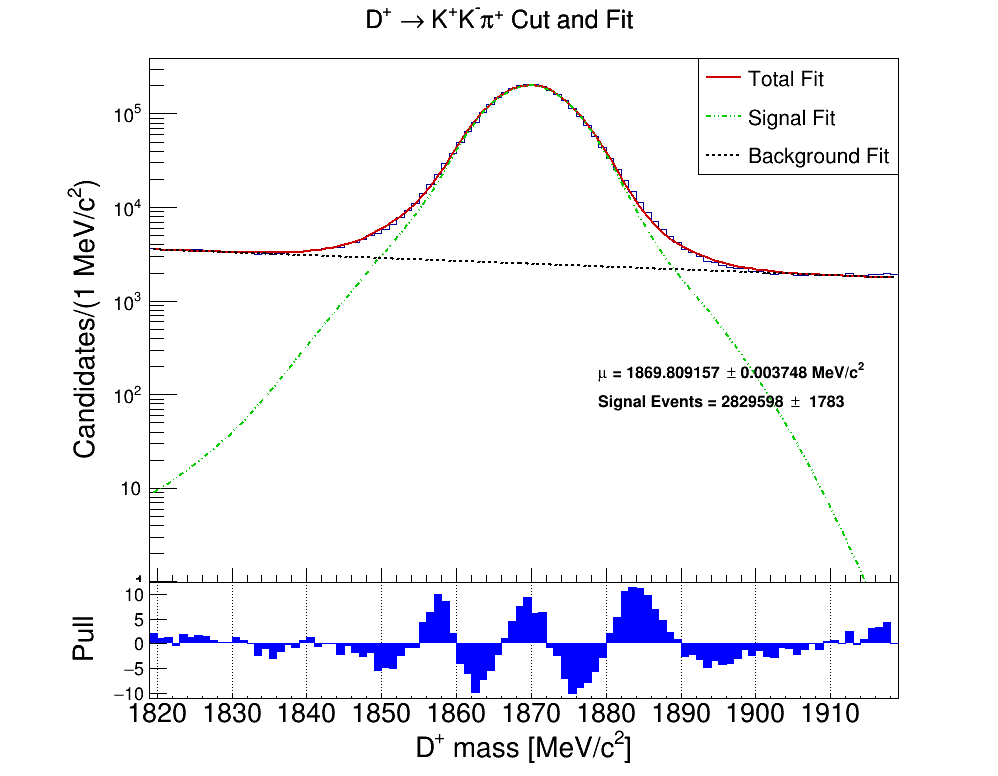
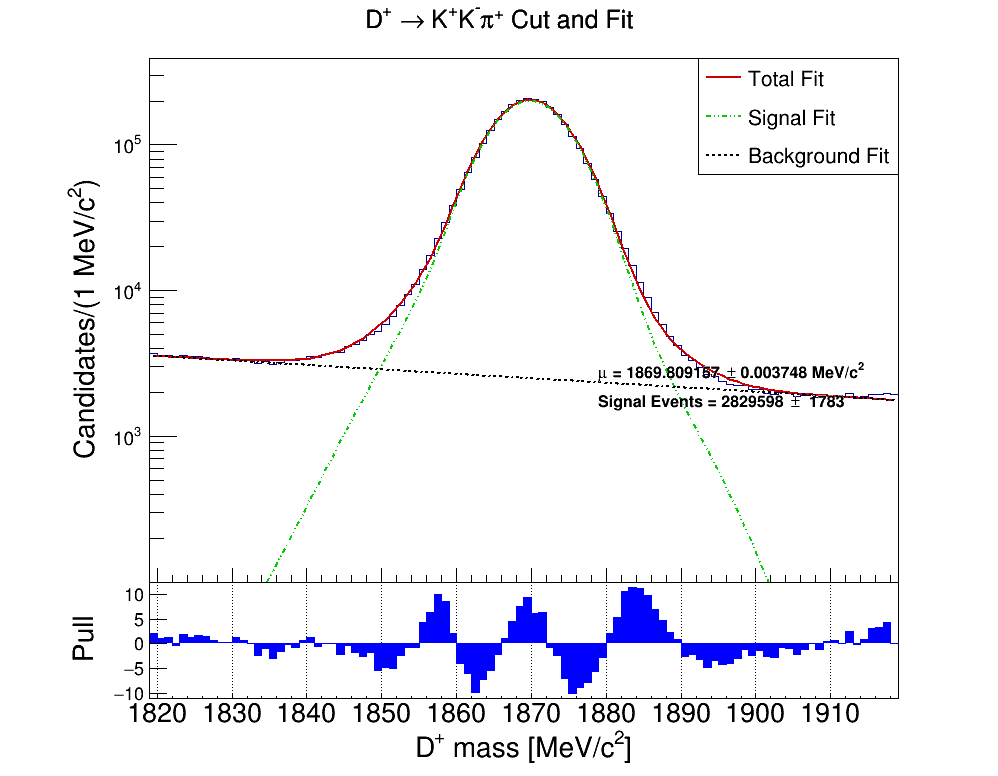
progress on rdf, new file for dp/dsp plotted together

diff --git a/dp_dsp_rdf.C b/dp_dsp_rdf.C
@@ -1,0 +1,132 @@
+{//begin
+#include <TMath.h>
+#include <math.h>
+#include "scripts/fit1MeV_GaussianPlusCBWithExp_redo.C"
+
+using namespace std;
+using namespace ROOT;
+
+EnableImplicitMT();
+
+
+//create rdataframe for dp, dsp magdown data
+RDataFrame dpdf("D2KKpi/DecayTree", "/share/lazy/D2KKpi/dp2kkpi_magdown.root");
+RDataFrame dspdf("Dsp2KKpi/DecayTree", "/share/lazy/D2KKpi/dsp2kkpi_magdown.root");
+
+
+
+const double phi_pm = 10;//12 for regular cut
+const double phiupperbound = (1019.455+phi_pm)*(1019.455+phi_pm)/1000000; 
+const double philowerbound = (1019.455-phi_pm)*(1019.455-phi_pm)/1000000; 
+
+const int binmin = 1790;//1790 absolute minimum for dp
+const int binmax = 2050;//max value for dsp is 2050
+const int nbins = 100;
+
+
+
+
+
+auto inv_m_func = [](double px1, double py1, double pz1, double pe1, double px2, double py2, double pz2, double pe2) {return TLorentzVector(TLorentzVector(px1, py1, pz1, pe1)+TLorentzVector(px2, py2, pz2, pe2)).Mag2()/1000000 ;};
+auto prob_func = [](double prob1, double prob2) {return TMath::Log(prob1) - TMath::Log(prob2) ;};
+
+
+auto cut_ipchi2 = [](double x) {return x < 3 ;};//5 for regular cut
+auto cut_fdchi2 = [](double x) {return x > 200 ;};//175 for regular cut
+auto cut_phi = [phiupperbound, philowerbound](double x) {return x > philowerbound && x < phiupperbound ;};
+auto cut_prob_5 = [] (double x) {return x>5 ;};
+auto cut_prob_0 = [] (double x) {return x>0 ;};
+
+
+
+auto dp_cut = dpdf.Filter(cut_ipchi2, {"Dplus_IPCHI2_OWNPV"})
+				   .Filter(cut_fdchi2, {"Dplus_FDCHI2_OWNPV"})
+				   .Define("kminuslog", prob_func, {"Kminus_MC15TuneV1_ProbNNk", "Kminus_MC15TuneV1_ProbNNpi"})
+				   .Define("kpluslog", prob_func, {"Kplus_MC15TuneV1_ProbNNk", "Kplus_MC15TuneV1_ProbNNpi"})
+				   .Define("pipluslog", prob_func, {"Piplus_MC15TuneV1_ProbNNpi", "Piplus_MC15TuneV1_ProbNNk"})
+				   .Filter(cut_prob_5, {"kminuslog"})
+				   .Filter(cut_prob_5, {"kpluslog"})
+				   .Filter(cut_prob_0, {"pipluslog"})
+				   .Define("mkpkm", inv_m_func, {"Kplus_PX", "Kplus_PY", "Kplus_PZ", "Kplus_PE", "Kminus_PX", "Kminus_PY", "Kminus_PZ", "Kminus_PE"})
+				   .Filter(cut_phi, {"mkpkm"});
+
+auto dsp_cut = dspdf.Filter(cut_ipchi2, {"Dsplus_IPCHI2_OWNPV"})
+				   .Filter(cut_fdchi2, {"Dsplus_FDCHI2_OWNPV"})
+				   .Define("kminuslog", prob_func, {"Kminus_MC15TuneV1_ProbNNk", "Kminus_MC15TuneV1_ProbNNpi"})
+				   .Define("kpluslog", prob_func, {"Kplus_MC15TuneV1_ProbNNk", "Kplus_MC15TuneV1_ProbNNpi"})
+				   .Define("pipluslog", prob_func, {"Piplus_MC15TuneV1_ProbNNpi", "Piplus_MC15TuneV1_ProbNNk"})
+				   .Filter(cut_prob_5, {"kminuslog"})
+				   .Filter(cut_prob_5, {"kpluslog"})
+				   .Filter(cut_prob_0, {"pipluslog"})
+				   .Define("mkpkm", inv_m_func, {"Kplus_PX", "Kplus_PY", "Kplus_PZ", "Kplus_PE", "Kminus_PX", "Kminus_PY", "Kminus_PZ", "Kminus_PE"})
+				   .Filter(cut_phi, {"mkpkm"});
+
+
+
+
+
+
+
+auto dptotalcuthist = dp_cut.Fill<double>(TH1D("dptotalcuthist","D^{+}_{(s)} #rightarrow K^{+}K^{-}#pi^{+}",nbins, binmin, binmax), {"Dplus_MM"});//D^{+} #rightarrow K^{+}K^{-}#pi^{+} Cut and Fit
+	dptotalcuthist->SetStats(0);
+    dptotalcuthist->SetTitleFont(43);
+    dptotalcuthist->SetTitleSize(33);
+    dptotalcuthist->GetYaxis()->SetTitle("Candidates/(1 MeV/c^{2})");//Candidates/(1 MeV/c^{2})
+    dptotalcuthist->SetMinimum(100);//make minimum 100 so logy doesnt break, make 100 or better viewing
+    dptotalcuthist->GetYaxis()->SetTitleFont(43);
+	dptotalcuthist->GetYaxis()->SetTitleSize(30);
+	dptotalcuthist->GetYaxis()->CenterTitle(true);
+    dptotalcuthist->GetXaxis()->SetTitle("Mass [MeV/c^{2}]");
+    dptotalcuthist->GetXaxis()->SetTitleFont(43);
+	dptotalcuthist->GetXaxis()->SetTitleSize(25);
+	dptotalcuthist->GetXaxis()->CenterTitle(true);
+	dptotalcuthist->GetXaxis()->SetTitleOffset(1.2);
+	dptotalcuthist->SetLineColor(kRed);
+
+auto dsptotalcuthist = dsp_cut.Fill<double>(TH1D("dsptotalcuthist","D^{+}_{(s)} #rightarrow K^{+}K^{-}#pi^{+}",nbins, binmin, binmax), {"Dsplus_MM"});//D^{+}_{s} #rightarrow K^{+}K^{-}#pi^{+} Cut and Fit
+	dsptotalcuthist->SetStats(0);
+    dsptotalcuthist->SetTitleFont(43);
+    dsptotalcuthist->SetTitleSize(33);
+    dsptotalcuthist->GetYaxis()->SetTitle("Candidates/(1 MeV/c^{2})");//Candidates/(1 MeV/c^{2})
+    dsptotalcuthist->SetMinimum(100);//make minimum 100 so logy doesnt break, make 100 or better viewing
+    dsptotalcuthist->GetYaxis()->SetTitleFont(43);
+	dsptotalcuthist->GetYaxis()->SetTitleSize(30);
+	dsptotalcuthist->GetYaxis()->CenterTitle(true);
+    dsptotalcuthist->GetXaxis()->SetTitle("Mass [MeV/c^{2}]");
+    dsptotalcuthist->GetXaxis()->SetTitleFont(43);
+	dsptotalcuthist->GetXaxis()->SetTitleSize(30);
+	dsptotalcuthist->GetXaxis()->CenterTitle(true);
+	dsptotalcuthist->GetXaxis()->SetTitleOffset(1.2);
+	dsptotalcuthist->SetLineColor(kBlue);
+
+
+
+
+auto dpdsplegend = new TLegend(0.8,0.8,0.9,0.9);
+	dpdsplegend->AddEntry(dptotalcuthist.GetPtr(), "D^{+}  Data ", "l");
+	dpdsplegend->AddEntry(dsptotalcuthist.GetPtr(), "D^{+}_{s}  Data", "l");
+
+
+
+auto linytotalpullcan = new TCanvas("linytotalpullcan", "linytotalpullcan", 1600, 1200);
+	linytotalpullcan->cd();
+	dsptotalcuthist->Draw();
+	dptotalcuthist->Draw("same");
+	dpdsplegend->Draw("same");
+linytotalpullcan->SaveAs("image/dp_dsp_continuous_liny_tightercuts.png");
+
+auto logytotalpullcan = new TCanvas("logytotalpullcan", "logytotalpullcan", 1600, 1200);
+	logytotalpullcan->cd();
+		TPad *pad1 = new TPad("pad1","pad1",0,0,1,1);
+		pad1->Draw();
+		pad1->cd();
+		pad1->SetLogy();
+	dsptotalcuthist->Draw();
+	dptotalcuthist->Draw("same");
+	dpdsplegend->Draw("same");
+logytotalpullcan->SaveAs("image/dp_dsp_continuous_logy_tightercuts.png");
+
+}//end
+
+
+

diff --git a/dp_cuts_rdf.C b/dp_cuts_rdf.C
@@ -6,7 +6,7 @@
 using namespace std;
 using namespace ROOT;
 
-EnableImplicitMT();
+//EnableImplicitMT();
 
 
 //create rdataframe for dp magdown data
@@ -74,18 +74,18 @@ pad1->cd();
 
 
 
-auto totalcuthist = dp_cut.Histo1D({"D^{+} cuts","D^{+} #rightarrow K^{+}K^{-}#pi^{+} Cut and Fit",nbins, binmin, binmax}, "Dplus_MM");
+auto totalcuthist = dp_cut.Fill<double>(TH1D("totalcuthist","D+ cut and fit",nbins, binmin, binmax), {"Dplus_MM"});//D^{+} #rightarrow K^{+}K^{-}#pi^{+} Cut and Fit
 	totalcuthist->SetStats(0);
     totalcuthist->SetTitleFont(43);
     totalcuthist->SetTitleSize(35);
-    totalcuthist->GetYaxis()->SetTitle("Candidates/(1 MeV/c^{2})");
-    totalcuthist->SetMinimum(1);//make minimum 1 so logy doesnt break
+    totalcuthist->GetYaxis()->SetTitle("events per 1mev");//Candidates/(1 MeV/c^{2})
+    totalcuthist->SetMinimum(100);//make minimum 1 so logy doesnt break, make 100 or better viewing
     totalcuthist->GetYaxis()->SetTitleFont(43);
 	totalcuthist->GetYaxis()->SetTitleSize(30);
 	totalcuthist->GetYaxis()->CenterTitle(true);
 
 /*
-myDpFit = new TF1("myDpFit",fit1MeV_GaussianPlusCBWithExp_redo,binmin, binmax, 9);
+auto myDpFit = new TF1("myDpFit",fit1MeV_GaussianPlusCBWithExp_redo,binmin, binmax, 9);
 	myDpFit->SetParNames("nSignal", "mu", "rms_wdth", "sigma_1", "gaus_frac", "exp_int","exp_coef","CB_alpha","CB_n");
 	myDpFit->SetLineColor(kRed+1);
 	myDpFit->SetLineWidth(2);

diff --git a/dp_cuts.C b/dp_cuts.C
@@ -109,7 +109,7 @@ totalcuthist->SetStats(0);
    totalcuthist->SetTitleFont(43);
    totalcuthist->SetTitleSize(35);
    totalcuthist->GetYaxis()->SetTitle("Candidates/(1 MeV/c^{2})");
-   totalcuthist->SetMinimum(1);//make minimum 1 so logy doesnt break
+   totalcuthist->SetMinimum(100);//make minimum 1 so logy doesnt break
    totalcuthist->GetYaxis()->SetTitleFont(43);
 totalcuthist->GetYaxis()->SetTitleSize(30);
  totalcuthist->GetYaxis()->CenterTitle(true);
@@ -376,7 +376,7 @@ totalcutpull->Draw();
  totalpullcan->cd();
 
 
- totalpullcan->SaveAs("image/dp_totalcut_pull_logy_fdcut.png");
+ totalpullcan->SaveAs("image/dp_totalcut_pull_logy_magdown.png");
 
 /*
 auto sigcan = new TCanvas("sigcan", "sigcan", 1000, 800);
